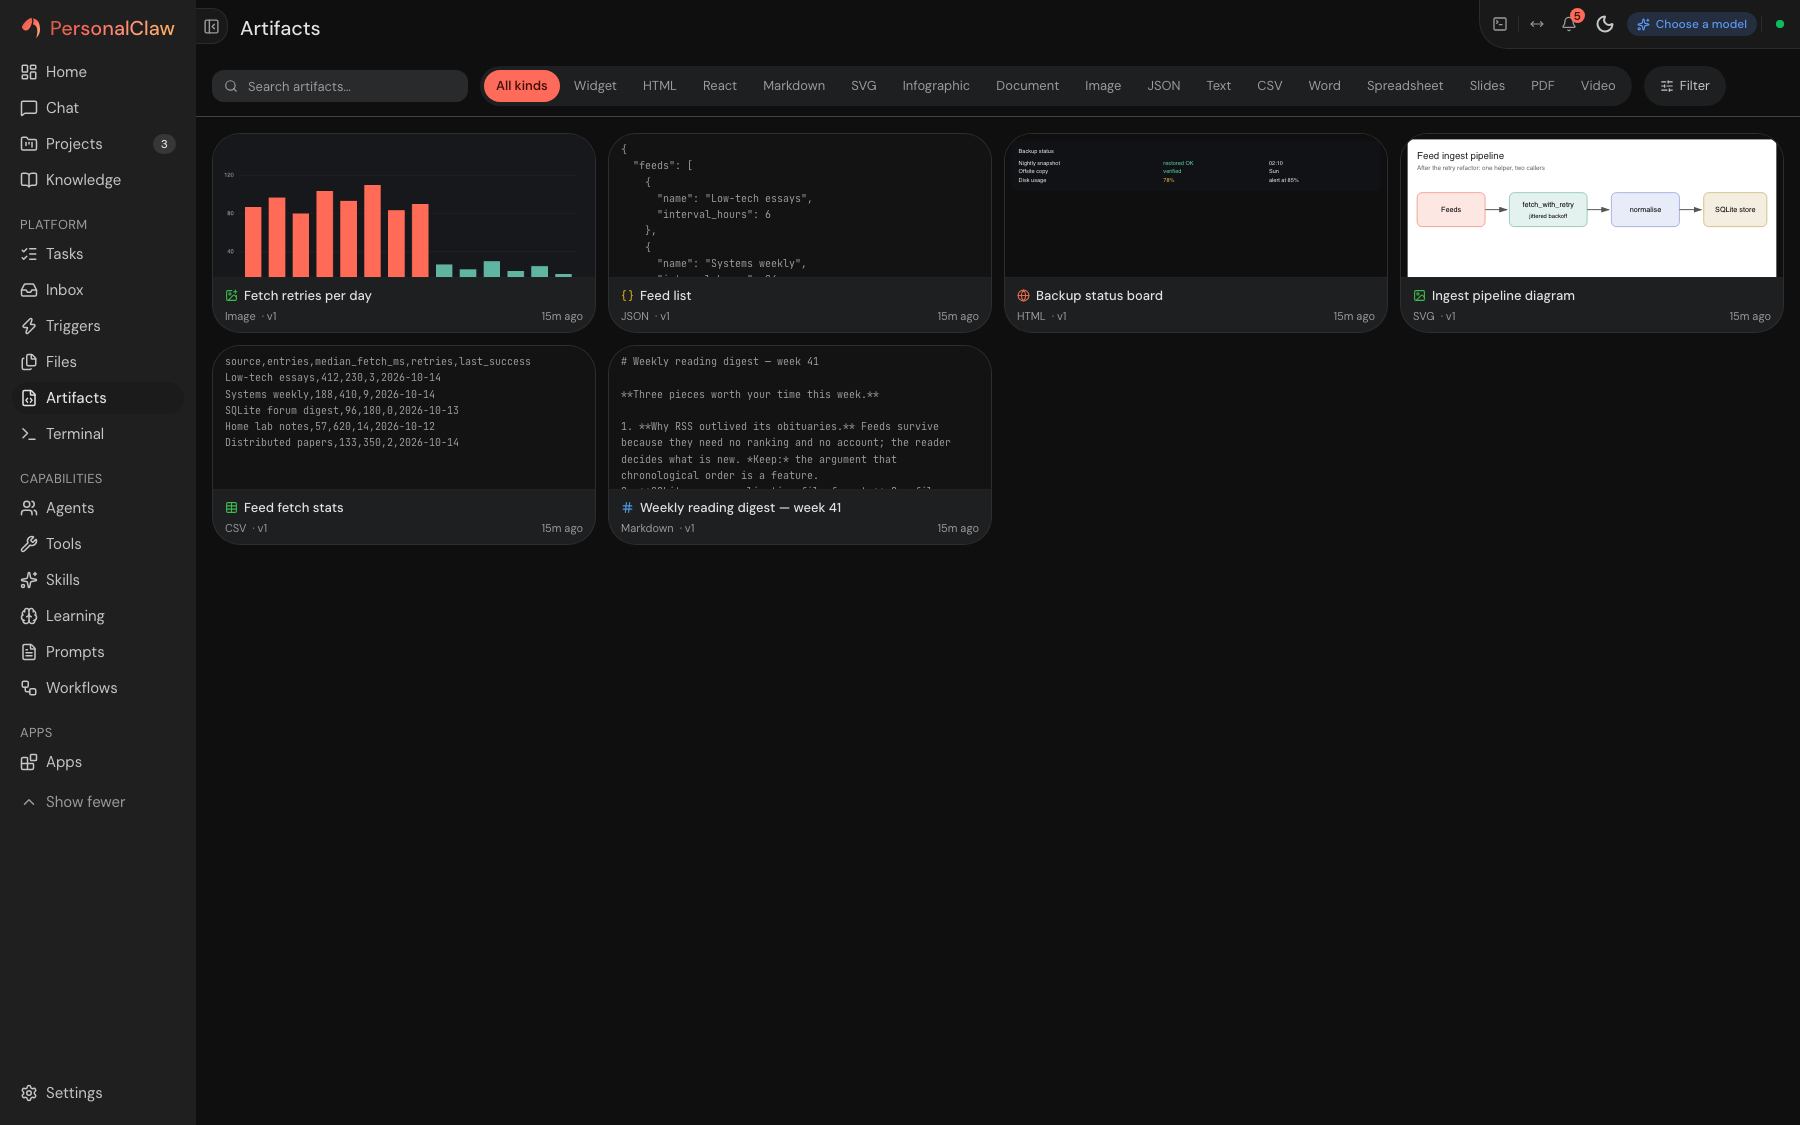
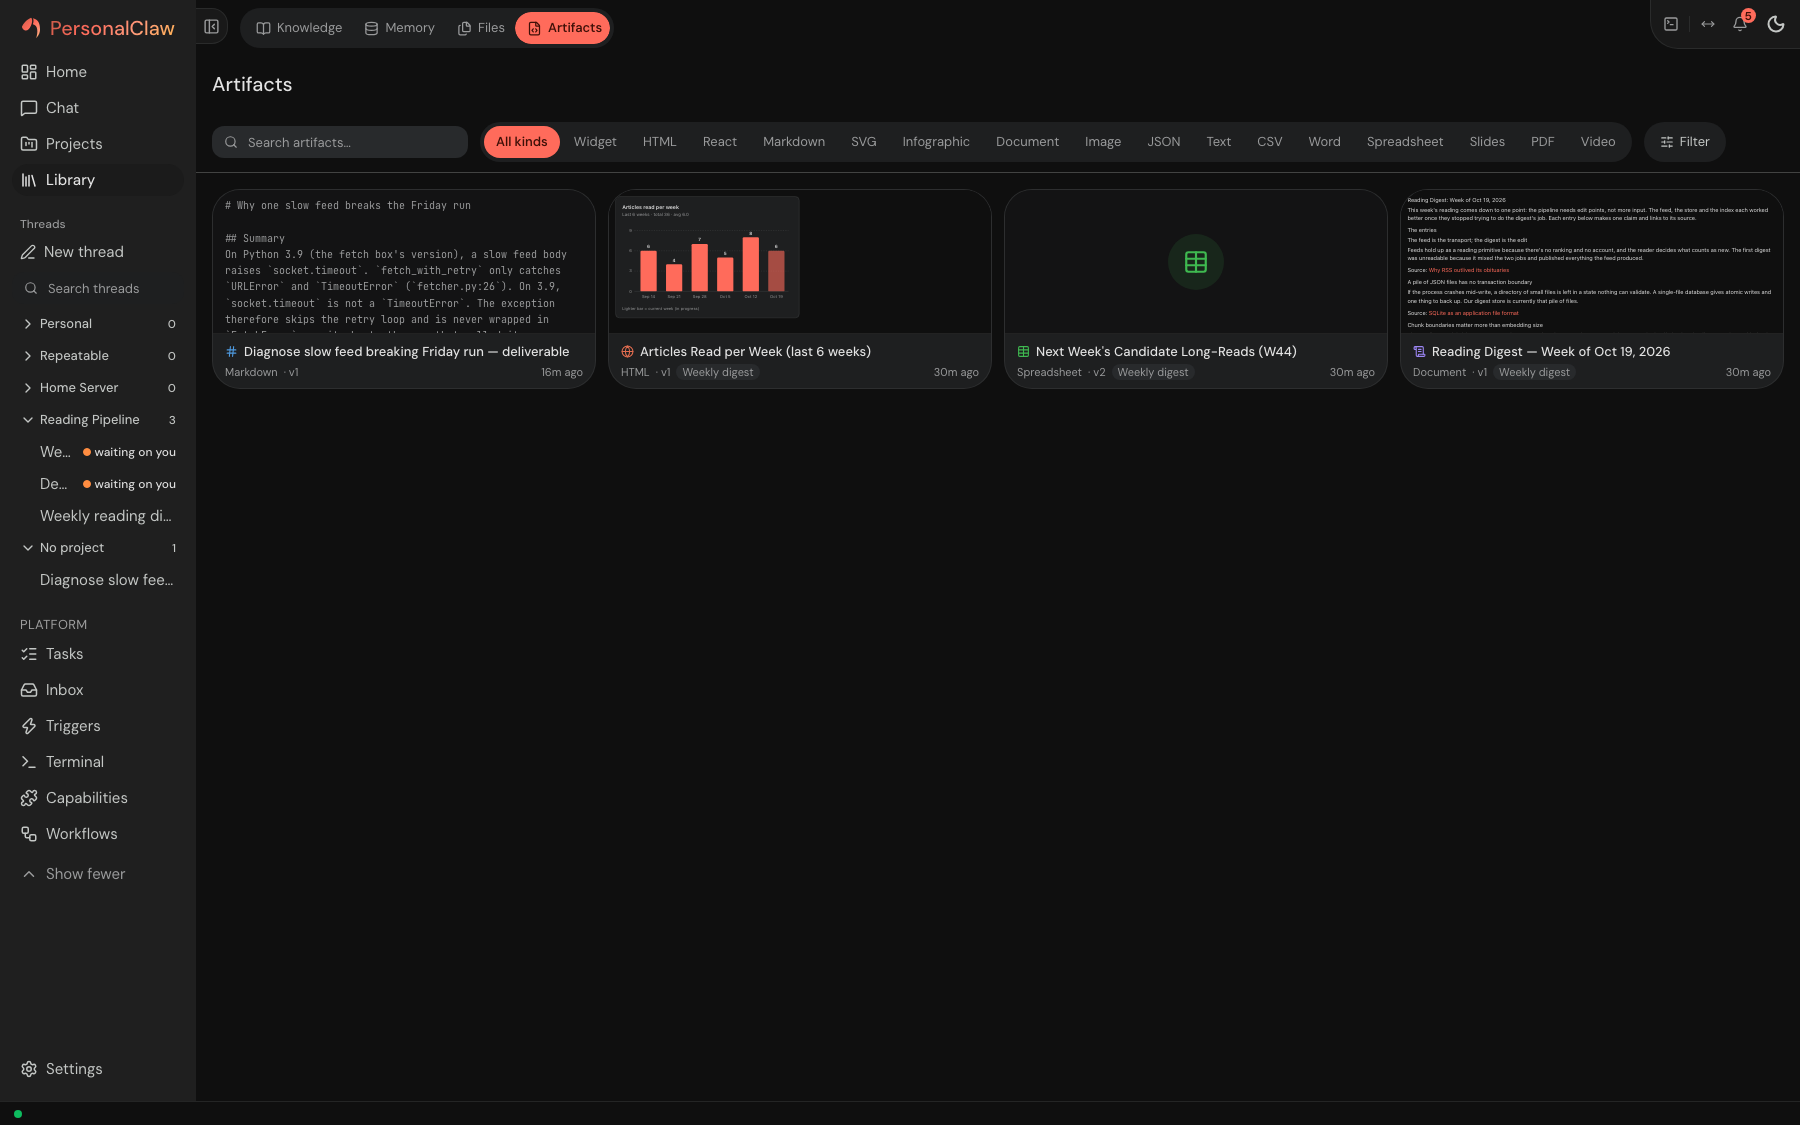
fix(pins): publish core v0.2.4
The site pins core v0.2.4 (2ba0fb86) and says so everywhere the version
shows. Apps stay at v0.2.2 (467cda1) until there is an apps tag to pin.

Pins and installer
- sources/personalclaw.sources.json: core v0.2.4 at 2ba0fb86, with the
  installer's sha256 equal to core's deploy/website/install.sh.sha256 at that
  commit. Registry unchanged.
- package.json and package-lock.json: 0.2.4, which release-parity ties to
  the core tag and the marketing manifest's targetRelease ties to the shots.
- public/install, from npm run sync:sources: the only change is
  PC_MIN_VERSION 0.2.2 -> 0.2.3.

/compare
- Every row's source link moves from /blob/v0.2.3/ to /blob/v0.2.4/.
- Four anchors move with their lines: loader.py, apps/manifest.py, ci.yml
  and desktop.md.
- The desktop file names say 0.2.4; release, commit and checked_on are
  updated.
- The six cited files that changed between the tags were re-read, and each
  row still says what the file says.

Screenshots
All 13 shots are recaptured from one scratch home, so they read as one
workspace. Core's demo home is seeded into it, as docs/screenshots/
CAPTURE.md describes, with a gateway on a free loopback port. Chat
(Opus 5.5, then Sonnet 5.5), embedding and speech-to-text are bound
through a model app from the Store, so no surface waits on a model choice.

The chat with its pending edit approval, the finished goal loop and its
deliverable, a second goal loop waiting on the owner's choice between two
[…]

diff --git a/marketing/README.md b/marketing/README.md
@@ -44,20 +44,20 @@ Edit `screenshots.manifest.json`:
 ### 2. Stand up the seeded screenshot instance
 
 Screenshots must show PersonalClaw **at its best with natural real-world data** — not the
-empty dev home used for behavior validation. Clone the working dev home rather than
-re-configuring providers from scratch:
+empty dev home used for behavior validation, and never the install's own home. Seed core's
+demo home into a scratch home and run a gateway for it on a free loopback port, as core's
+[`docs/screenshots/CAPTURE.md`](https://github.com/PersonalClaw/PersonalClaw/blob/main/docs/screenshots/CAPTURE.md)
+describes:
 
 ```sh
-# from the CORE repo (PersonalClaw/), against the RELEASED tag checkout:
-cp -R .dev-home .screenshot-home
-PERSONALCLAW_HOME="$PWD/.screenshot-home" PERSONALCLAW_AUTH_MODE=none \
-  .venv/bin/personalclaw gateway --no-open --port 10001
+# against the RELEASED tag's install:
+PERSONALCLAW_HOME=/tmp/pc-showcase personalclaw gateway --seed demo-home --seed-replace \
+  --port 10021 --no-open --json-ready
 ```
 
-Cloning inherits the already-configured providers (ollama chat, faster-whisper stt, model
-bindings), so no re-wiring. It also keeps marketing data out of the `:10000` validation
-instance. (Voice sidecars may be per-instance; if a voice surface is ever shot and
-contends, briefly stop `:10000` for that capture. Chat via ollama is shared-service safe.)
+The seed carries projects, tasks, knowledge documents and markdown memory, and binds no
+model. Install a model app, bind chat, and bind embedding and speech-to-text too, so no
+surface on screen is waiting on a model choice.
 
 ### 3. Seed the per-shot scenarios
 
@@ -76,9 +76,14 @@ For each `shipping` shot, capture the `appView` at the manifest's dimensions:
   upscales — the largest widths each placement requests are baked into `minWidth`).
 - Save as **PNG** to the shot's `asset` path (`src/assets/<id>.png`), overwriting.
 
-There is intentionally **no Playwright capture script**: faithful real-world data seeding
-can't be scripted reliably, and the manifest gives the reproducibility. Capture is done by
-the agent/operator driving the seeded instance per the manifest.
+Seeding can't be scripted reliably, so the manifest gives the reproducibility. Photographing
+can: `scripts/capture-app-shots.mjs` visits each `appView`, waits for it to settle and for
+the gateway connection, and writes `marketing/.captures/<id>.png` for review. Promote a shot
+into `src/assets/` only once it is reviewed:
+
+```sh
+PERSONALCLAW_TOKEN=… node scripts/capture-app-shots.mjs --base http://127.0.0.1:10021
+```
 
 ### 5. Drop assets + update copy
 
